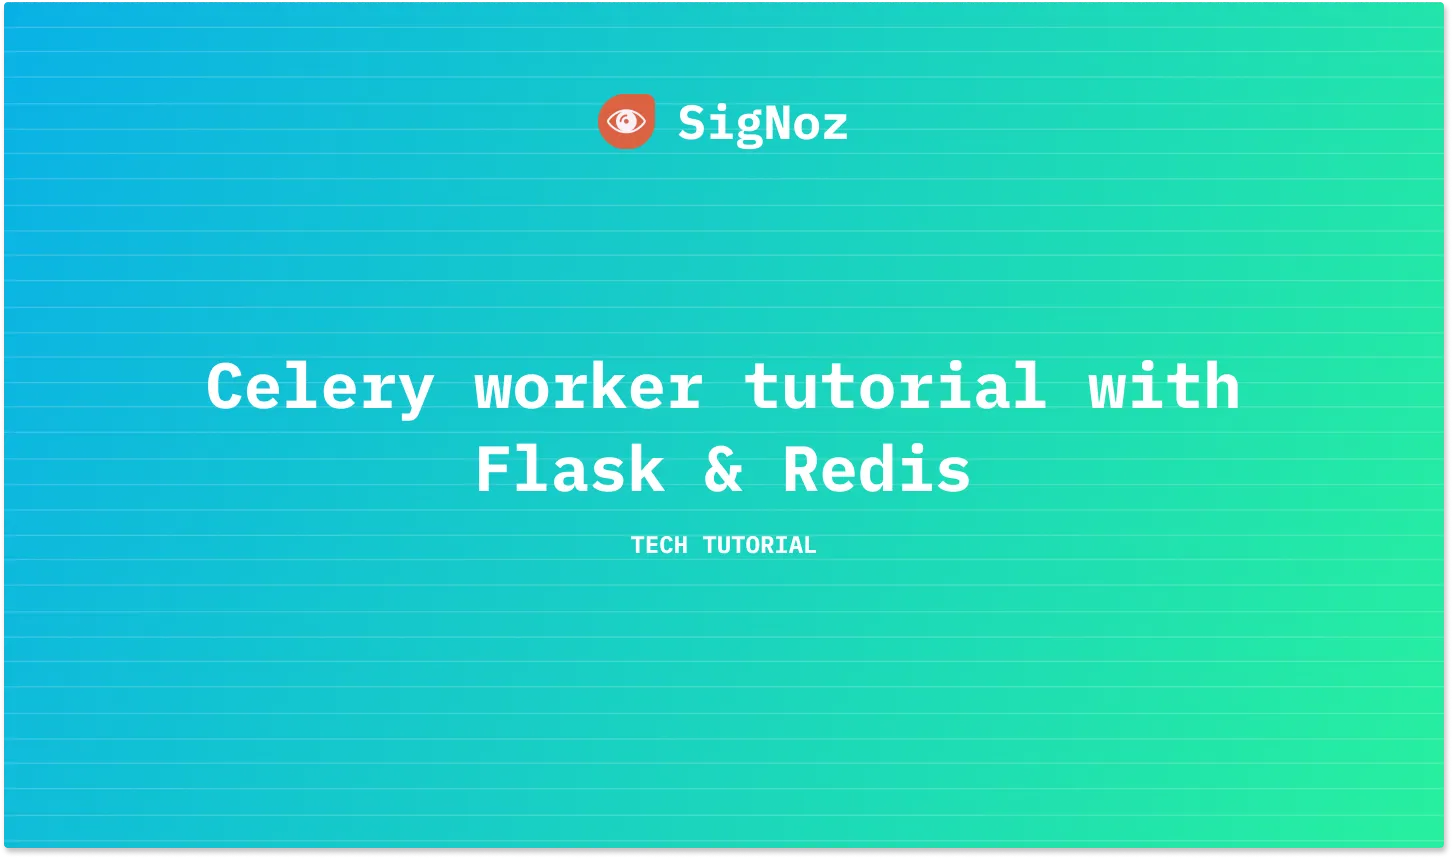
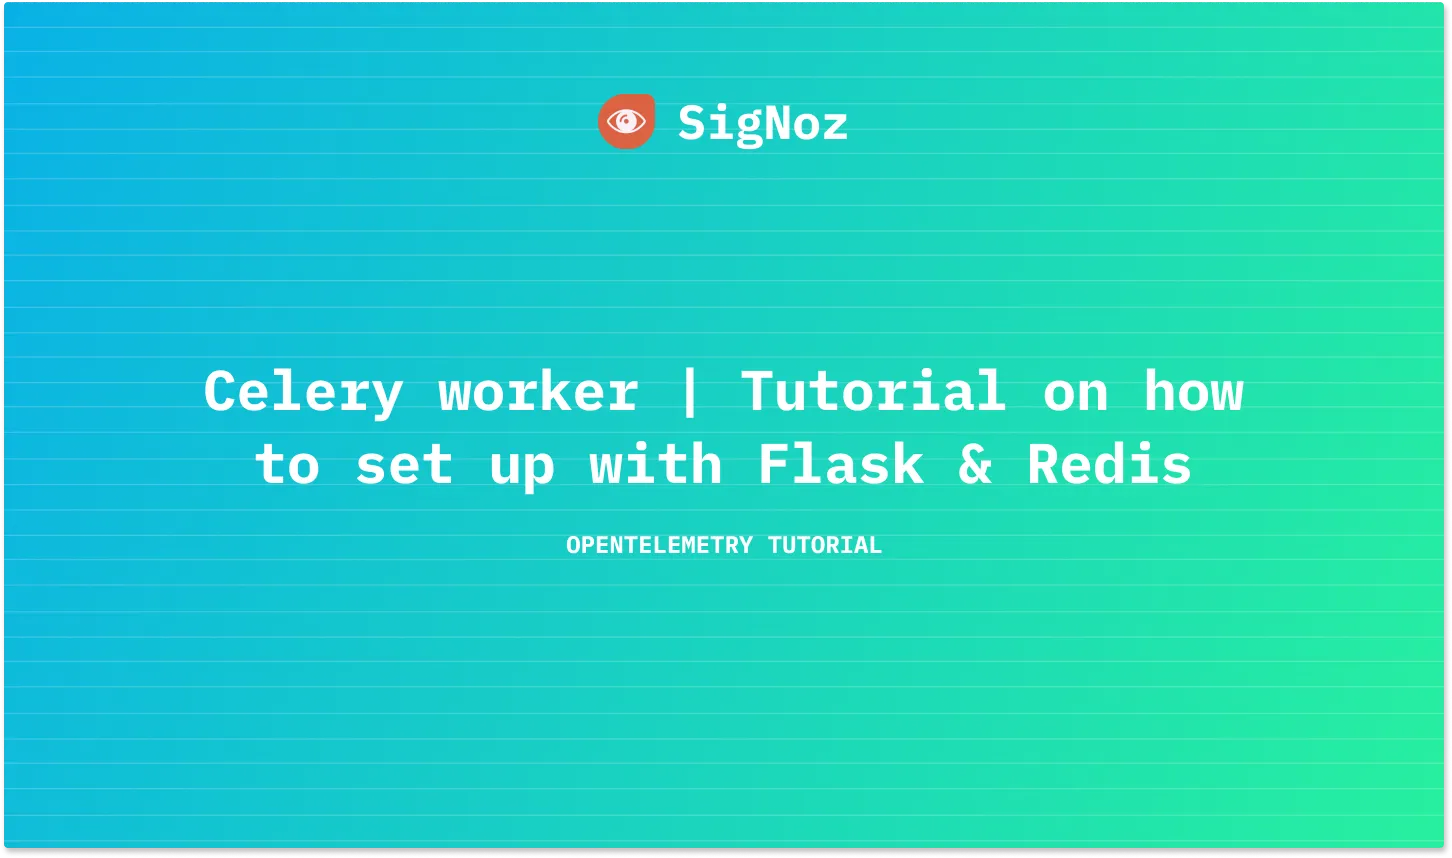
Updated the title and cover pic

diff --git a/blog/2022-05-27-celery-worker.md b/blog/2022-05-27-celery-worker.md
@@ -1,10 +1,10 @@
 ---
-title: Celery worker tutorial with Flask & Redis
+title: Celery worker | Tutorial on how to set up with Flask & Redis
 slug: celery-worker
 date: 2022-05-27
 tags: [Tutorial]
 authors: [ezz]
-description: In this tutorial, learn how to implement a Celery worker with Flask and Redis. Celery is a task queue with a focus on real-time processing while also supporting task scheduling...
+description: In this tutorial, learn how to implement a Celery worker with Flask and Redis. Celery worker is a simple and reliable task queue with a focus on real-time processing while also supporting task scheduling...
 image: /img/blog/2022/05/celery_worker_cover.webp
 keywords:
   - celery worker
@@ -18,7 +18,7 @@ keywords:
   <link rel="canonical" href="https://signoz.io/blog/celery-worker/"/>
 </head>
 
-Celery is a simple, flexible, and reliable distributed system to process vast amounts of messages while providing operations with the tools required to maintain such a system. In this tutorial, we will learn how to implement Celery with Flask and Redis.
+Celery worker is a simple, flexible, and reliable distributed system to process vast amounts of messages while providing operations with the tools required to maintain such a system. In this tutorial, we will learn how to implement Celery with Flask and Redis.
 
 <!--truncate-->
 
@@ -32,13 +32,13 @@ Before we deep dive into the tutorial, let’s have a brief overview of Celery w
 
 Let's try to understand the role of a Celery worker with the help of an example. Imagine you're at a car service station to get your car serviced. You place a request at the reception to get your car serviced.
 
-1. Message
+1. Message<br></br>
 You place a request at the reception to get your car serviced. This request is a message.
-2. Task
+2. Task<br></br>
 Servicing your car is the task to be executed.
-3. Task Queue
+3. Task Queue<br></br>
 Like yourself, there will be other customers at the station. All the customer cars waiting to be serviced is part of the task queue.
-4. Worker
+4. Worker<br></br>
 The mechanics at the station are workers who execute the tasks.
 
 Celery makes use of brokers to distribute tasks across multiple workers and to manage the task queue. In the example above, the attendant who takes your car service request from the reception to the workshop is the broker. The role of the broker is to deliver messages between clients and workers.
